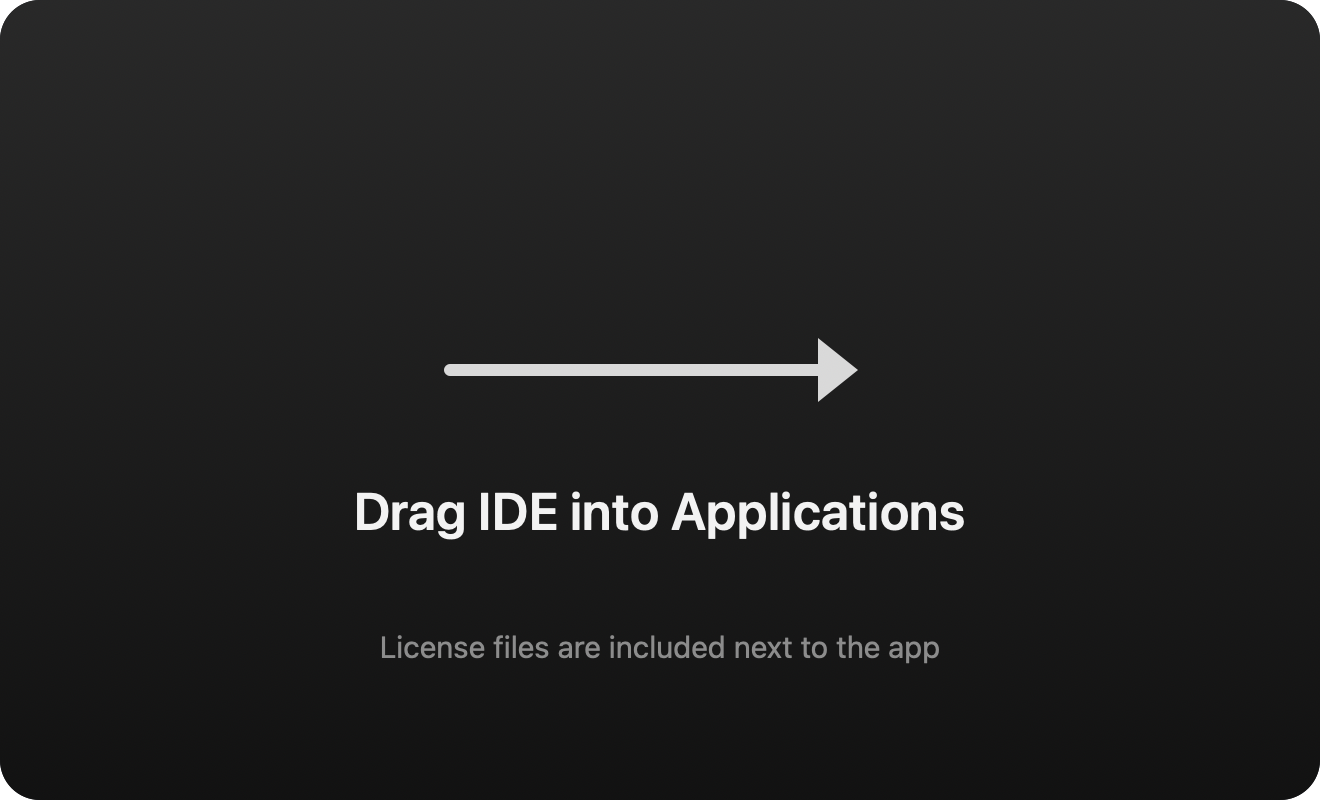
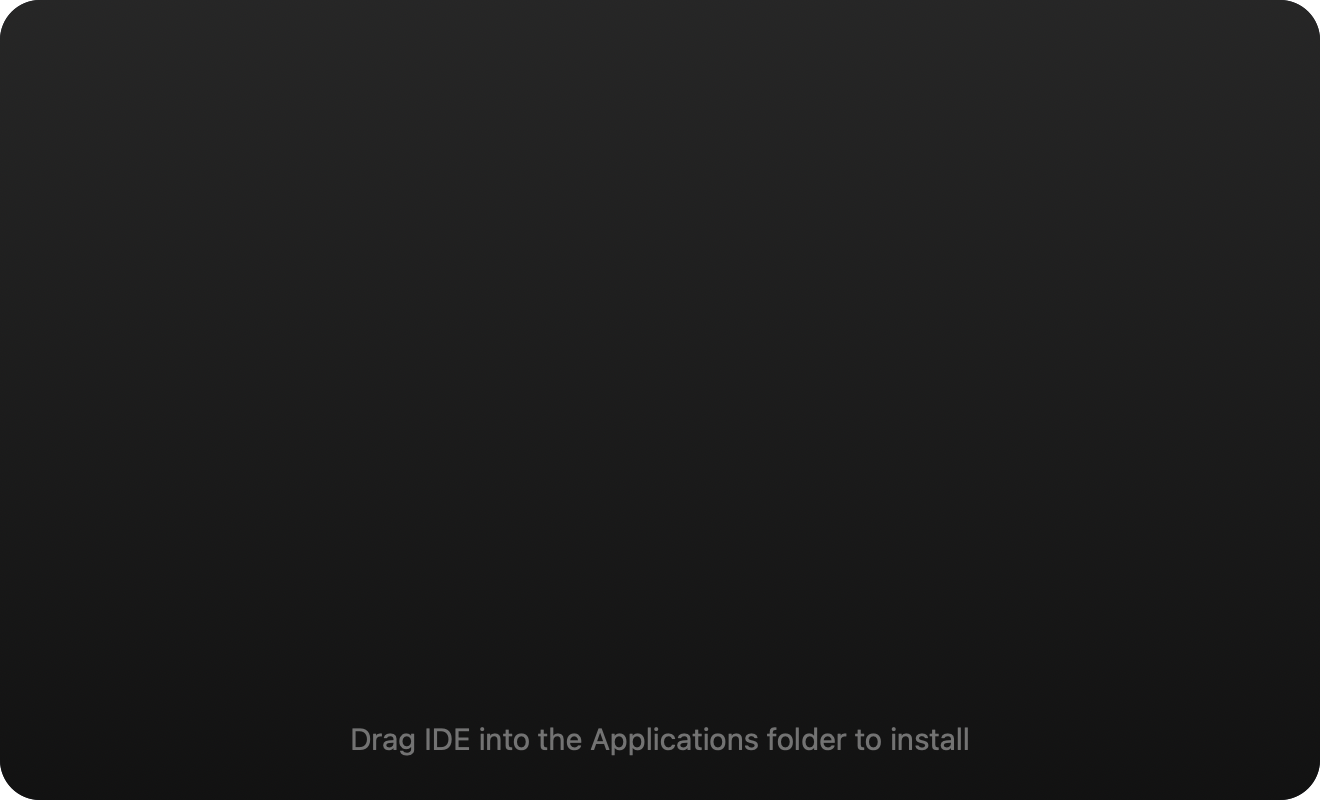
Simplify DMG background to a single caption

diff --git a/scripts/make-dmg-background.swift b/scripts/make-dmg-background.swift
@@ -9,45 +9,18 @@ image.lockFocus()
 let panel = NSBezierPath(roundedRect: NSRect(x: 0, y: 0, width: width, height: height), xRadius: 20, yRadius: 20)
 NSColor(deviceRed: 0.09, green: 0.10, blue: 0.13, alpha: 1).setFill()
 panel.fill()
-NSGradient(starting: NSColor(deviceWhite: 0.16, alpha: 1), ending: NSColor(deviceWhite: 0.07, alpha: 1))?
+NSGradient(starting: NSColor(deviceWhite: 0.15, alpha: 1), ending: NSColor(deviceWhite: 0.07, alpha: 1))?
     .draw(in: panel, angle: -90)
-
-let arrowY = 215.0
-let arrowStart = CGFloat(225)
-let arrowTip = CGFloat(435)
-let shaft = NSBezierPath()
-shaft.lineWidth = 6
-shaft.lineCapStyle = .round
-shaft.move(to: NSPoint(x: arrowStart, y: arrowY))
-shaft.line(to: NSPoint(x: arrowTip - 18, y: arrowY))
-NSColor(deviceWhite: 0.85, alpha: 1).setStroke()
-shaft.stroke()
-
-let head = NSBezierPath()
-head.move(to: NSPoint(x: arrowTip - 26, y: arrowY + 16))
-head.line(to: NSPoint(x: arrowTip - 6, y: arrowY))
-head.line(to: NSPoint(x: arrowTip - 26, y: arrowY - 16))
-head.close()
-NSColor(deviceWhite: 0.85, alpha: 1).setFill()
-head.fill()
 
 let centered = NSMutableParagraphStyle()
 centered.alignment = .center
-let title: [NSAttributedString.Key: Any] = [
-    .font: NSFont.systemFont(ofSize: 26, weight: .semibold),
-    .foregroundColor: NSColor(deviceWhite: 0.95, alpha: 1),
-    .paragraphStyle: centered,
-]
-NSAttributedString(string: "Drag IDE into Applications", attributes: title)
-    .draw(in: NSRect(x: 0, y: 120, width: width, height: 40))
-
 let caption: [NSAttributedString.Key: Any] = [
     .font: NSFont.systemFont(ofSize: 15),
-    .foregroundColor: NSColor(deviceWhite: 0.55, alpha: 1),
+    .foregroundColor: NSColor(deviceWhite: 0.45, alpha: 1),
     .paragraphStyle: centered,
 ]
-NSAttributedString(string: "License files are included next to the app", attributes: caption)
-    .draw(in: NSRect(x: 0, y: 62, width: width, height: 24))
+NSAttributedString(string: "Drag IDE into the Applications folder to install", attributes: caption)
+    .draw(in: NSRect(x: 0, y: 18, width: width, height: 22))
 
 image.unlockFocus()
 
